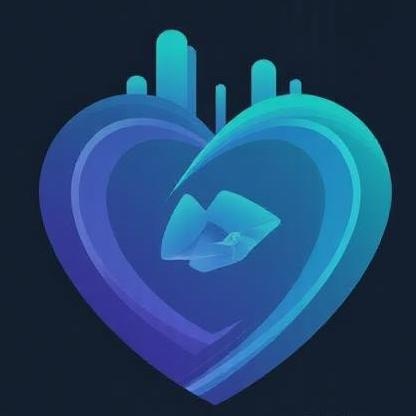
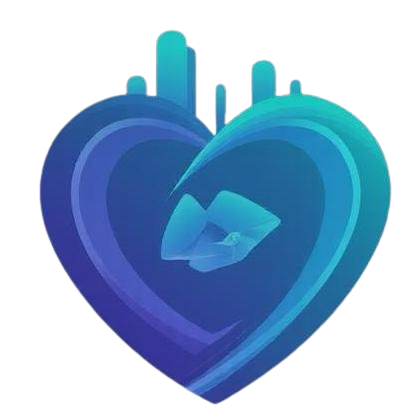
Fix logom

diff --git a/app/layout.tsx b/app/layout.tsx
@@ -25,7 +25,7 @@ export const metadata: Metadata = {
   icons: {
     icon: [
       {
-        url: "/logo-removebg-preview.png",
+        url: "/icon.png",
         type: "image/png",
         sizes: "180x180"
       },
@@ -37,7 +37,7 @@ export const metadata: Metadata = {
     ],
     apple: [
       {
-        url: "/logo-removebg-preview.png",
+        url: "/icon.png",
         type: "image/png",
         sizes: "180x180"
       }
